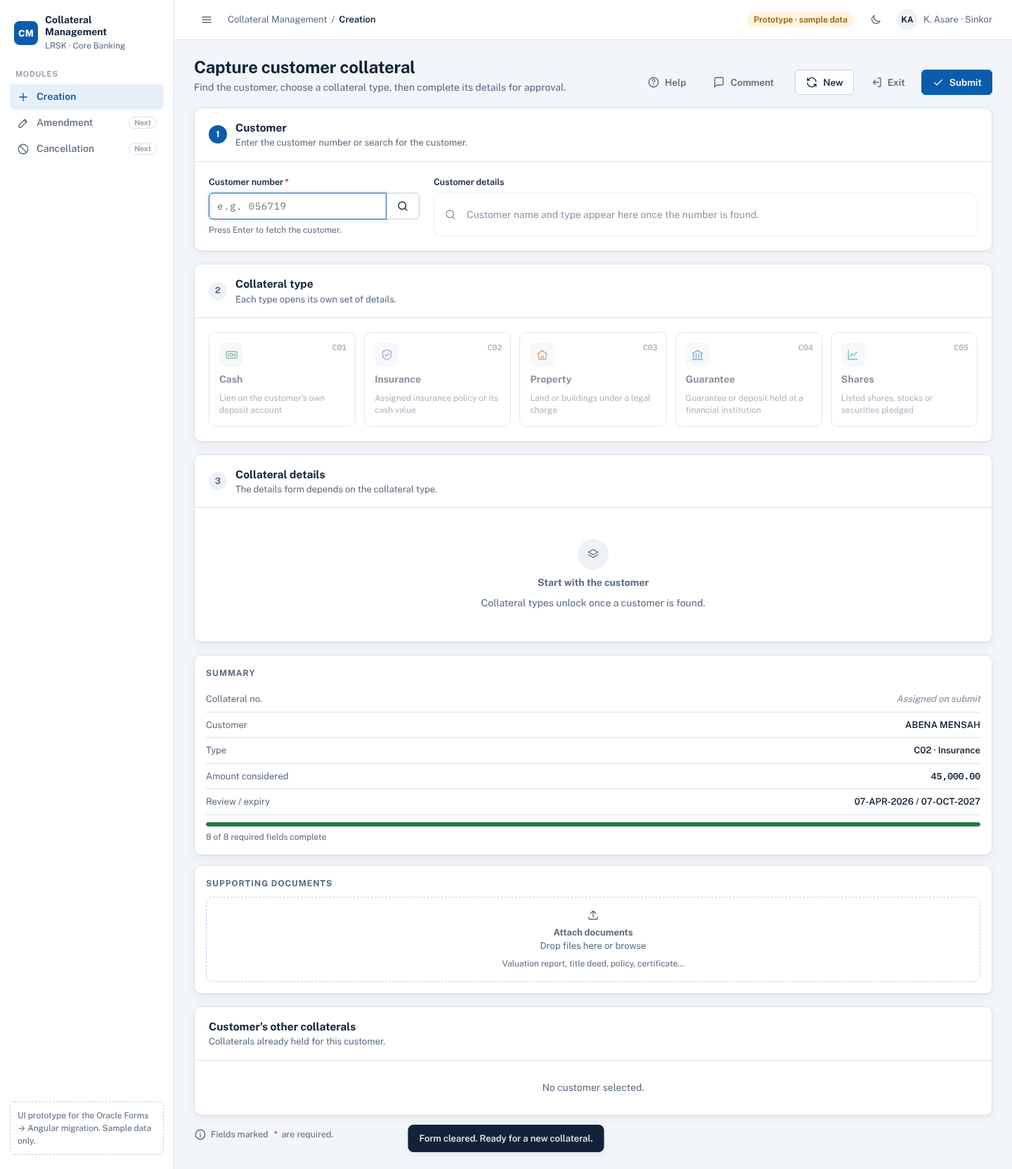
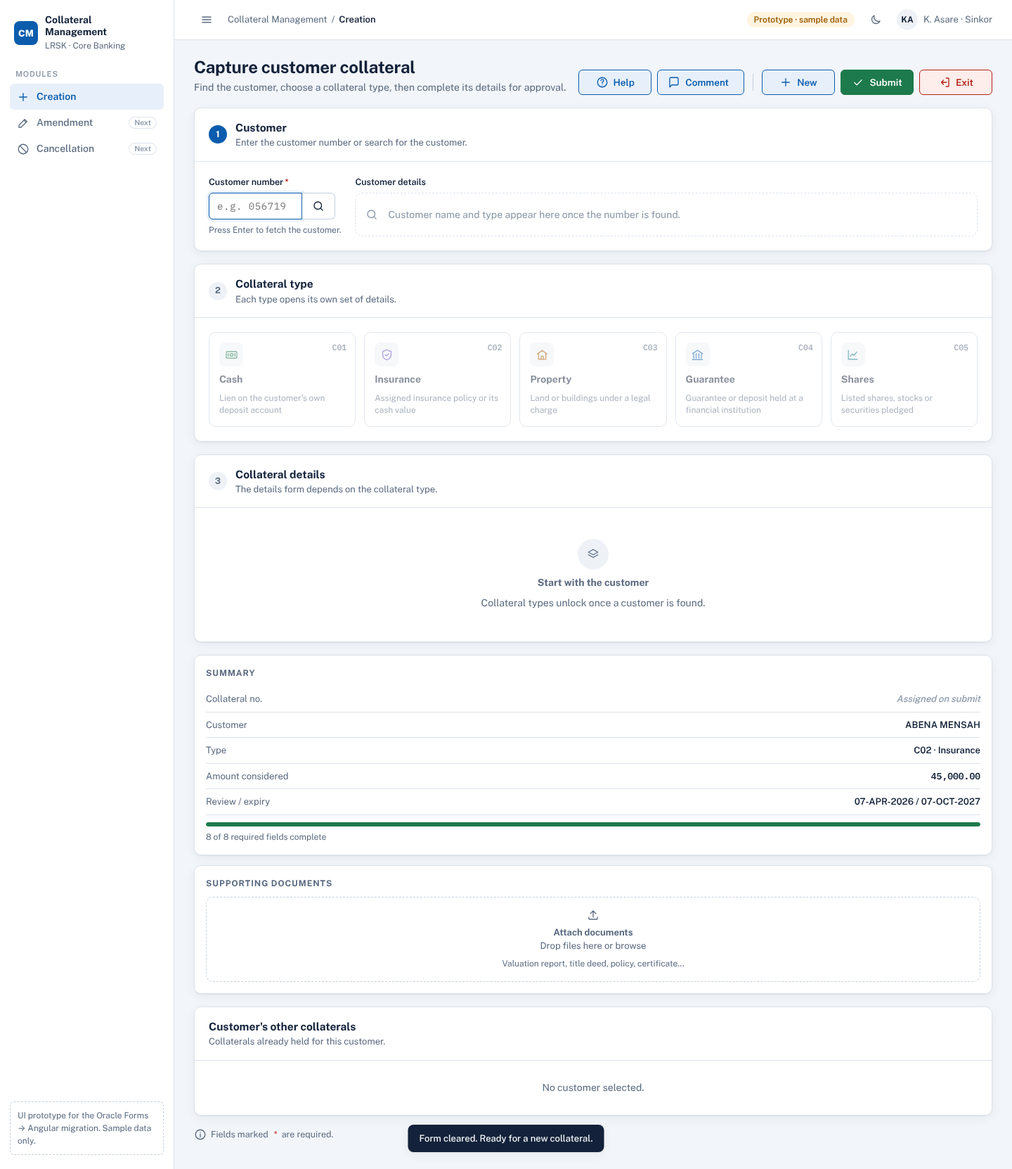
Standardise action bar colours and size fields to their values
- Help, Comment, New (blue), Submit (green), Exit (red) in Forms order,
  documented as the standard action bar for every module
- Width scale (xs-2xl) so controls match their value length
- Branch shown as code + name (010 SINKOR)

Claude-Session: https://claude.ai/code/session_011ztbXXXbWQFsQty3k2T7VW

Changed region(s): [[0.7812, 0.0614, 1.0, 0.0921], [0.5938, 0.0614, 0.75, 0.0921], [0.3438, 0.1534, 0.5, 0.1841]]

diff --git a/design/creation/index.html b/design/creation/index.html
@@ -18,6 +18,7 @@
   --danger:#B42318; --danger-soft:#FDEDEB;
   --success:#1D7A4C; --success-soft:#E4F3EB;
   --warn:#9A5A00; --warn-soft:#FFF4E0;
+  --act-blue:#0B5CAD; --act-blue-soft:#E7F0FA; --act-green:#1D7A4C; --act-green-ink:#FFFFFF; --act-red:#B42318; --act-red-soft:#FDEDEB;
   --t-cash:#1D7A4C; --t-ins:#6A4BC2; --t-prop:#B05E0C; --t-guar:#0B5CAD; --t-shares:#0D7A84;
   --shadow:0 1px 2px rgba(19,34,58,.06),0 4px 16px rgba(19,34,58,.05);
   --overlay:rgba(12,22,38,.42);
@@ -32,6 +33,7 @@
   --primary:#5AA2EE; --primary-hover:#7BB5F2; --primary-ink:#081322; --primary-soft:#16304F;
   --danger:#F2867B; --danger-soft:#3A1C1C; --success:#5CC892; --success-soft:#14321F;
   --warn:#E9B15C; --warn-soft:#352812;
+  --act-blue:#6AAEF2; --act-blue-soft:#16304F; --act-green:#3FB57A; --act-green-ink:#06180E; --act-red:#F2867B; --act-red-soft:#3A1C1C;
   --t-cash:#5CC892; --t-ins:#A890F0; --t-prop:#E6A25A; --t-guar:#5AA2EE; --t-shares:#4CC3CC;
   --shadow:0 1px 2px rgba(0,0,0,.3),0 4px 16px rgba(0,0,0,.25); --overlay:rgba(3,7,14,.6);
   color-scheme:dark}}
@@ -42,6 +44,7 @@
   --primary:#5AA2EE; --primary-hover:#7BB5F2; --primary-ink:#081322; --primary-soft:#16304F;
   --danger:#F2867B; --danger-soft:#3A1C1C; --success:#5CC892; --success-soft:#14321F;
   --warn:#E9B15C; --warn-soft:#352812;
+  --act-blue:#6AAEF2; --act-blue-soft:#16304F; --act-green:#3FB57A; --act-green-ink:#06180E; --act-red:#F2867B; --act-red-soft:#3A1C1C;
   --t-cash:#5CC892; --t-ins:#A890F0; --t-prop:#E6A25A; --t-guar:#5AA2EE; --t-shares:#4CC3CC;
   --shadow:0 1px 2px rgba(0,0,0,.3),0 4px 16px rgba(0,0,0,.25); --overlay:rgba(3,7,14,.6);
   color-scheme:dark}
@@ -90,6 +93,16 @@ svg.i{width:18px;height:18px;flex:none;stroke:currentColor;fill:none;stroke-widt
 .btn:hover{background:var(--surface-2)}
 .btn.primary{background:var(--primary);border-color:var(--primary);color:var(--primary-ink)}
 .btn.primary:hover{background:var(--primary-hover)}
+/* Standard action bar (same on every module screen): Help, Comment, New = blue · Submit = green · Exit = red */
+.actionbar{display:flex;gap:8px;flex-wrap:wrap;align-items:center}
+.actionbar .sep{width:1px;height:24px;background:var(--line-strong);margin:0 4px}
+.btn.act-blue{background:var(--act-blue-soft);border-color:var(--act-blue);color:var(--act-blue)}
+.btn.act-blue:hover{background:var(--act-blue);color:var(--surface)}
+.btn.act-green{background:var(--act-green);border-color:var(--act-green);color:var(--act-green-ink)}
+.btn.act-green:hover{filter:brightness(1.08)}
+.btn.act-red{background:var(--act-red-soft);border-color:var(--act-red);color:var(--act-red)}
+.btn.act-red:hover{background:var(--act-red);color:var(--surface)}
+.actionbar .btn{min-width:104px;justify-content:center}
 .btn.ghost{border-color:transparent;background:transparent;color:var(--muted)}
 .btn.ghost:hover{background:var(--sunken);color:var(--fg)}
 .btn.icon{padding:0;width:36px;justify-content:center}
@@ -109,6 +122,10 @@ svg.i{width:18px;height:18px;flex:none;stroke:currentColor;fill:none;stroke-widt
 /* Fields */
 .grid{display:grid;grid-template-columns:repeat(2,minmax(0,1fr));gap:16px 20px}
 .grid .span2{grid-column:1/-1}
+/* Field width scale: controls are sized to the length of their values, not stretched to the column */
+.field{--w:100%}
+.field > .input,.field > .lookup-btn,.field > .ro,.field > .affix,.field > .search{width:var(--w);max-width:100%}
+.w-xs{--w:120px}.w-sm{--w:180px}.w-md{--w:220px}.w-lg{--w:300px}.w-xl{--w:420px}.w-2xl{--w:560px}.w-full{--w:100%}
 .field{display:flex;flex-direction:column;gap:6px;min-width:0}
 .field label,.field .lbl{font-size:12.5px;font-weight:600;color:var(--fg)}
 .req{color:var(--danger);margin-left:2px}
@@ -138,7 +155,7 @@ textarea.input{height:auto;min-height:76px;padding:9px 11px;resize:vertical}
 .section-title{font-size:11.5px;text-transform:uppercase;letter-spacing:.08em;font-weight:700;color:var(--muted);margin:0}
 
 /* Step 1: customer */
-.cust-row{display:grid;grid-template-columns:minmax(220px,300px) minmax(0,1fr);gap:20px;align-items:start}
+.cust-row{display:grid;grid-template-columns:auto minmax(0,1fr);gap:20px;align-items:start}
 .search{display:flex;gap:0}
 .search .input{border-top-right-radius:0;border-bottom-right-radius:0;font-family:var(--font-mono);letter-spacing:.04em}
 .search .btn{border-top-left-radius:0;border-bottom-left-radius:0;border-left:0;height:38px}
@@ -253,7 +270,7 @@ tr.new td{background:var(--primary-soft)}
   .cust-row{grid-template-columns:minmax(0,1fr)}
   .user span{display:none}
 }
-@media (max-width:640px){.types{grid-template-columns:repeat(2,minmax(0,1fr))}.grid{grid-template-columns:minmax(0,1fr)}.page-head .actions{width:100%}.page-head .actions .btn.primary{margin-left:auto}.sample-pill{display:none}.card-head .right{display:none}}
+@media (max-width:640px){.types{grid-template-columns:repeat(2,minmax(0,1fr))}.grid{grid-template-columns:minmax(0,1fr)}.actionbar .sep{display:none}.actionbar .btn{min-width:0;flex:1 1 auto}.sample-pill{display:none}.card-head .right{display:none}}
 @media (prefers-reduced-motion:reduce){*{animation:none!important;transition:none!important}}
 </style>
 </head>
@@ -311,12 +328,13 @@ tr.new td{background:var(--primary-soft)}
           <h1>Capture customer collateral</h1>
           <p>Find the customer, choose a collateral type, then complete its details for approval.</p>
         </div>
-        <div class="actions">
-          <button class="btn ghost" id="helpBtn"><svg class="i"><use href="#i-help"/></svg>Help</button>
-          <button class="btn ghost" id="commentBtn"><svg class="i"><use href="#i-msg"/></svg>Comment <span id="commentCount"></span></button>
-          <button class="btn" id="newBtn"><svg class="i"><use href="#i-refresh"/></svg>New</button>
-          <button class="btn ghost" id="exitBtn"><svg class="i"><use href="#i-close"/></svg>Exit</button>
-          <button class="btn primary" id="submitBtn"><svg class="i"><use href="#i-check"/></svg>Submit</button>
+        <div class="actionbar" role="toolbar" aria-label="Screen actions">
+          <button class="btn act-blue" id="helpBtn"><svg class="i"><use href="#i-help"/></svg>Help</button>
+          <button class="btn act-blue" id="commentBtn"><svg class="i"><use href="#i-msg"/></svg>Comment<span id="commentCount"></span></button>
+          <span class="sep" aria-hidden="true"></span>
+          <button class="btn act-blue" id="newBtn"><svg class="i"><use href="#i-plus"/></svg>New</button>
+          <button class="btn act-green" id="submitBtn"><svg class="i"><use href="#i-check"/></svg>Submit</button>
+          <button class="btn act-red" id="exitBtn"><svg class="i"><use href="#i-close"/></svg>Exit</button>
         </div>
       </div>
 
@@ -325,13 +343,13 @@ tr.new td{background:var(--primary-soft)}
         <div class="card-head"><div class="step" id="step1">1</div><div><h2 id="s1">Customer</h2><p>Enter the customer number or search for the customer.</p></div></div>
         <div class="card-body">
           <div class="cust-row">
-            <div class="field" id="fld-customer">
+            <div class="field w-sm" id="fld-customer">
               <label for="custNo">Customer number<span class="req">*</span></label>
               <div class="search">
                 <input class="input" id="custNo" inputmode="numeric" autocomplete="off" placeholder="e.g. 056719" maxlength="10">
                 <button class="btn" id="custSearch" type="button" aria-label="Search customers"><svg class="i"><use href="#i-search"/></svg></button>
               </div>
-              <div class="hint" id="custHint">Press Enter to fetch the customer.</div>
+              <div class="hint" id="custHint" style="max-width:220px">Press Enter to fetch the customer.</div>
             </div>
             <div class="field">
               <span class="lbl">Customer details</span>
@@ -379,17 +397,17 @@ const parseAmt=v=>{const n=parseFloat(String(v).replace(/,/g,""));return isNaN(n
 
 /* ---------- Sample reference data (stands in for the Oracle LOVs) ---------- */
 const CUSTOMERS=[
-  {code:"056719",name:"ABENA MENSAH",type:"INDIVIDUAL",branch:"SINKOR"},
-  {code:"048213",name:"KOFI BOATENG ENTERPRISES",type:"CORPORATE",branch:"SINKOR"},
-  {code:"061104",name:"EFUA ASANTE",type:"INDIVIDUAL",branch:"CONGO TOWN"},
-  {code:"072530",name:"RIVERSIDE TRADERS LTD",type:"CORPORATE",branch:"BROAD STREET"},
+  {code:"056719",name:"ABENA MENSAH",type:"INDIVIDUAL",branch:"SINKOR",brCode:"010"},
+  {code:"048213",name:"KOFI BOATENG ENTERPRISES",type:"CORPORATE",branch:"SINKOR",brCode:"010"},
+  {code:"061104",name:"EFUA ASANTE",type:"INDIVIDUAL",branch:"CONGO TOWN",brCode:"012"},
+  {code:"072530",name:"RIVERSIDE TRADERS LTD",type:"CORPORATE",branch:"BROAD STREET",brCode:"015"},
 ];
 const ACCOUNTS=[
-  {code:"00422004346801",desc:"ABENA MENSAH",cust:"056719",branch:"SINKOR",prod:"220",prodDesc:"SAVINGS PERSONAL",ccy:"010",ccyDesc:"GHANA CEDIS",bal:{avail:1220.78,cleared:1542.78,uncleared:0,od:0,block:322.00}},
-  {code:"00422001198320",desc:"ABENA MENSAH",cust:"056719",branch:"SINKOR",prod:"310",prodDesc:"FIXED DEPOSIT 12M",ccy:"010",ccyDesc:"GHANA CEDIS",bal:{avail:25000,cleared:25000,uncleared:0,od:0,block:0}},
-  {code:"00431007712055",desc:"KOFI BOATENG ENTERPRISES",cust:"048213",branch:"SINKOR",prod:"110",prodDesc:"CURRENT CORPORATE",ccy:"020",ccyDesc:"US DOLLAR",bal:{avail:84310.5,cleared:90110.5,uncleared:5800,od:0,block:0}},
-  {code:"00515002203914",desc:"EFUA ASANTE",cust:"061104",branch:"CONGO TOWN",prod:"220",prodDesc:"SAVINGS PERSONAL",ccy:"010",ccyDesc:"GHANA CEDIS",bal:{avail:6420,cleared:6420,uncleared:0,od:0,block:0}},
-  {code:"00608009934117",desc:"RIVERSIDE TRADERS LTD",cust:"072530",branch:"BROAD STREET",prod:"110",prodDesc:"CURRENT CORPORATE",ccy:"010",ccyDesc:"GHANA CEDIS",bal:{avail:142800,cleared:150000,uncleared:7200,od:0,block:0}},
+  {code:"00422004346801",desc:"ABENA MENSAH",cust:"056719",branch:"SINKOR",brCode:"010",prod:"220",prodDesc:"SAVINGS PERSONAL",ccy:"010",ccyDesc:"GHANA CEDIS",bal:{avail:1220.78,cleared:1542.78,uncleared:0,od:0,block:322.00}},
+  {code:"00422001198320",desc:"ABENA MENSAH",cust:"056719",branch:"SINKOR",brCode:"010",prod:"310",prodDesc:"FIXED DEPOSIT 12M",ccy:"010",ccyDesc:"GHANA CEDIS",bal:{avail:25000,cleared:25000,uncleared:0,od:0,block:0}},
+  {code:"00431007712055",desc:"KOFI BOATENG ENTERPRISES",cust:"048213",branch:"SINKOR",brCode:"010",prod:"110",prodDesc:"CURRENT CORPORATE",ccy:"020",ccyDesc:"US DOLLAR",bal:{avail:84310.5,cleared:90110.5,uncleared:5800,od:0,block:0}},
+  {code:"00515002203914",desc:"EFUA ASANTE",cust:"061104",branch:"CONGO TOWN",brCode:"012",prod:"220",prodDesc:"SAVINGS PERSONAL",ccy:"010",ccyDesc:"GHANA CEDIS",bal:{avail:6420,cleared:6420,uncleared:0,od:0,block:0}},
+  {code:"00608009934117",desc:"RIVERSIDE TRADERS LTD",cust:"072530",branch:"BROAD STREET",brCode:"015",prod:"110",prodDesc:"CURRENT CORPORATE",ccy:"010",ccyDesc:"GHANA CEDIS",bal:{avail:142800,cleared:150000,uncleared:7200,od:0,block:0}},
 ];
 const L=(code,desc,extra)=>Object.assign({code,desc},extra||{});
 const LOVS={
@@ -409,7 +427,7 @@ const LOVS={
 
 /* ---------- Collateral type schemas (same shape the Angular dynamic form would read) ---------- */
 const COLL=(o)=>[
-  {id:"amount",label:o.amountLabel||"Amount considered",type:"amount",req:true},
+  {id:"amount",label:o.amountLabel||"Amount considered",type:"amount",req:true,span:o.extra?1:2},
   ...(o.extra||[]),
   {id:"reviewDate",label:o.reviewLabel||"Review date",type:"date",req:true},
   {id:"expiryDate",label:o.expiryLabel||"Expiry date",type:"date",req:true},
@@ -419,30 +437,30 @@ const TYPES=[
   {code:"C01",name:"Cash",title:"Cash collateral",lovDesc:"CASH COLLATERALS",tc:"--t-cash",ic:"cash",d:"Lien on the customer's own deposit account",
    sections:[
     {title:"Account details",fields:[
-      {id:"account",label:"Source account",type:"lookup",lov:"account",req:true,span:2},
-      {id:"srcBranch",label:"Source branch",type:"derived",get:s=>s.lookups.account?.branch},
+      {id:"account",label:"Source account",type:"lookup",lov:"account",req:true,span:2,w:"xl"},
+      {id:"srcBranch",label:"Source branch",type:"derived",get:s=>s.lookups.account&&`${s.lookups.account.brCode} · ${s.lookups.account.branch}`,w:"md"},
       {id:"product",label:"Product",type:"derived",get:s=>s.lookups.account&&`${s.lookups.account.prod} · ${s.lookups.account.prodDesc}`},
-      {id:"ccy",label:"Currency",type:"derived",get:s=>s.lookups.account&&`${s.lookups.account.ccy} · ${s.lookups.account.ccyDesc}`},
+      {id:"ccy",label:"Currency",type:"derived",w:"md",get:s=>s.lookups.account&&`${s.lookups.account.ccy} · ${s.lookups.account.ccyDesc}`},
     ]},
     {title:"Collateral details",fields:COLL({amountLabel:"Collateral amount",reviewLabel:"Next review date",expiryLabel:"Expiry review date"})}],
    rail:"balances"},
   {code:"C02",name:"Insurance",title:"Insurance collateral",lovDesc:"INSURANCE COLLATERALS",tc:"--t-ins",ic:"shield",d:"Assigned insurance policy or its cash value",
    sections:[
     {title:"Insurance details",fields:[
-      {id:"insCompany",label:"Insurance company",type:"lookup",lov:"insCompany",req:true,span:2},
-      {id:"insCode",label:"Insurance code",type:"text",req:true},
+      {id:"insCompany",label:"Insurance company",type:"lookup",lov:"insCompany",req:true,span:2,w:"xl"},
+      {id:"insCode",label:"Insurance code",type:"text",req:true,w:"sm"},
       {id:"policyNo",label:"Policy number",type:"text",req:true},
-      {id:"policyType",label:"Policy type",type:"lookup",lov:"policyType",req:true,span:2},
+      {id:"policyType",label:"Policy type",type:"lookup",lov:"policyType",req:true,span:2,w:"xl"},
     ]},
     {title:"Collateral details",fields:COLL({extra:[{id:"sumAssured",label:"Sum assured",type:"amount",req:true}]})}]},
   {code:"C03",name:"Property",title:"Property collateral",lovDesc:"PROPERTY COLLATERAL",tc:"--t-prop",ic:"home",d:"Land or buildings under a legal charge",
    sections:[
     {title:"Property details",fields:[
-      {id:"propType",label:"Property type",type:"lookup",lov:"propType",req:true},
-      {id:"propSub",label:"Sub property type",type:"lookup",lov:"propSub"},
-      {id:"owner",label:"Ownership name",type:"text",req:true,span:2},
-      {id:"location",label:"Location",type:"text",req:true,span:2},
-      {id:"valuer",label:"Valuer name",type:"text",req:true},
+      {id:"propType",label:"Property type",type:"lookup",lov:"propType",req:true,w:"lg"},
+      {id:"propSub",label:"Sub property type",type:"lookup",lov:"propSub",w:"lg"},
+      {id:"owner",label:"Ownership name",type:"text",req:true,span:2,w:"2xl"},
+      {id:"location",label:"Location",type:"text",req:true,span:2,w:"2xl"},
+      {id:"valuer",label:"Valuer name",type:"text",req:true,w:"lg"},
       {id:"valuerTel",label:"Valuer contact number",type:"tel",req:true,placeholder:"e.g. 0302678178"},
       {id:"valDate",label:"Valuation date",type:"date",req:true},
       {id:"marketValue",label:"Market value",type:"amount",req:true},
@@ -452,31 +470,31 @@ const TYPES=[
   {code:"C04",name:"Guarantee",title:"Guarantee collateral",lovDesc:"GUARANTEE COLLATERALS",tc:"--t-guar",ic:"bank",d:"Guarantee or deposit held at a financial institution",
    sections:[
     {title:"Guarantee details",fields:[
-      {id:"finInst",label:"Financial institution",type:"lookup",lov:"finInst",req:true,span:2},
-      {id:"guarAccount",label:"Account number",type:"lookup",lov:"guarAccount",req:true,span:2},
-      {id:"currency",label:"Currency",type:"lookup",lov:"currency",req:true},
-      {id:"branch",label:"Branch",type:"text"},
-      {id:"depositType",label:"Deposit type",type:"lookup",lov:"depositType",req:true},
-      {id:"guarCollType",label:"Collateral type",type:"lookup",lov:"guarCollType",req:true},
+      {id:"finInst",label:"Financial institution",type:"lookup",lov:"finInst",req:true,span:2,w:"xl"},
+      {id:"guarAccount",label:"Account number",type:"lookup",lov:"guarAccount",req:true,span:2,w:"xl"},
+      {id:"currency",label:"Currency",type:"lookup",lov:"currency",req:true,w:"lg"},
+      {id:"branch",label:"Branch",type:"text",w:"lg"},
+      {id:"depositType",label:"Deposit type",type:"lookup",lov:"depositType",req:true,w:"lg"},
+      {id:"guarCollType",label:"Collateral type",type:"lookup",lov:"guarCollType",req:true,w:"lg"},
       {id:"rate",label:"Interest rate",type:"percent",req:true},
       {id:"guarAmount",label:"Guarantee amount",type:"amount",req:true},
       {id:"months",label:"Number of months",type:"int",req:true},
-      {id:"folioNo",label:"Folio number",type:"text",req:true},
-      {id:"folioStart",label:"Folio start number",type:"text",req:true},
-      {id:"folioEnd",label:"Folio end number",type:"text",req:true},
+      {id:"folioNo",label:"Folio number",type:"text",req:true,w:"sm"},
+      {id:"folioStart",label:"Folio start number",type:"text",req:true,w:"sm"},
+      {id:"folioEnd",label:"Folio end number",type:"text",req:true,w:"sm"},
     ]},
     {title:"Collateral details",fields:COLL({})}]},
   {code:"C05",name:"Shares",title:"Shares / stock / security collateral",lovDesc:"SHARES / STOCKS / SECURITIES COLLATERAL",tc:"--t-shares",ic:"chart",d:"Listed shares, stocks or securities pledged",
    sections:[
     {title:"Shares / stock / security details",fields:[
-      {id:"shareCode",label:"Share / security code",type:"lookup",lov:"shareCode",req:true,span:2},
-      {id:"shareIndex",label:"Index",type:"lookup",lov:"shareIndex",req:true,span:2},
+      {id:"shareCode",label:"Share / security code",type:"lookup",lov:"shareCode",req:true,span:2,w:"xl"},
+      {id:"shareIndex",label:"Index",type:"lookup",lov:"shareIndex",req:true,span:2,w:"xl"},
       {id:"units",label:"Number of shares / securities",type:"int",req:true},
       {id:"secAmount",label:"Security amount",type:"amount",req:true},
       {id:"marketValue",label:"Market value",type:"amount",req:true},
-      {id:"folioNo",label:"Folio number",type:"text",req:true},
-      {id:"folioStart",label:"Folio start number",type:"text",req:true},
-      {id:"folioEnd",label:"Folio end number",type:"text",req:true},
+      {id:"folioNo",label:"Folio number",type:"text",req:true,w:"sm"},
+      {id:"folioStart",label:"Folio start number",type:"text",req:true,w:"sm"},
+      {id:"folioEnd",label:"Folio end number",type:"text",req:true,w:"sm"},
     ]},
     {title:"Collateral details",fields:COLL({})}]},
 ];
@@ -505,7 +523,7 @@ function renderCustomer(){
   if(S.loading){card.innerHTML=`<div class="cust-card"><div class="avatar"></div><div style="flex:1;display:grid;gap:8px"><div class="skeleton" style="width:55%"></div><div class="skeleton" style="width:35%"></div></div></div>`;return}
   if(!c){card.innerHTML=`<div class="cust-card empty">${icon("search")}Customer name and type appear here once the number is found.</div>`;return}
   const ini=c.name.split(" ").slice(0,2).map(w=>w[0]).join("");
-  card.innerHTML=`<div class="cust-card"><div class="avatar">${esc(ini)}</div><div style="min-width:0"><div class="nm">${esc(c.name)}</div><div class="meta"><span class="badge ${c.type==="CORPORATE"?"corp":""}">${esc(c.type)}</span><span class="mono">${esc(c.code)}</span><span>Home branch · ${esc(c.branch)}</span></div></div></div>`;
+  card.innerHTML=`<div class="cust-card"><div class="avatar">${esc(ini)}</div><div style="min-width:0"><div class="nm">${esc(c.name)}</div><div class="meta"><span class="badge ${c.type==="CORPORATE"?"corp":""}">${esc(c.type)}</span><span class="mono">${esc(c.code)}</span><span>Home branch · <span class="mono">${esc(c.brCode)}</span> ${esc(c.branch)}</span></div></div></div>`;
 }
 function fetchCustomer(code){
   code=String(code||"").trim();
@@ -531,6 +549,8 @@ function renderTypes(){
 }
 
 /* ---------- Step 3: dynamic form ---------- */
+const WIDTH={amount:"w-md",percent:"w-xs",int:"w-xs",date:"w-sm",tel:"w-sm",text:"w-md",lookup:"w-xl",derived:"w-lg",textarea:"w-2xl"};
+const wcls=f=>f.w?"w-"+f.w:WIDTH[f.type]||"w-md";
 function fieldHtml(t,f){
   const id=`f-${t.code}-${f.id}`,v=S.values[f.id]??"",err=S.showErrors&&S.errors[f.id];
   const lbl=`<label for="${id}">${esc(f.label)}${f.req?'<span class="req">*</span>':""}</label>`;
@@ -541,7 +561,7 @@ function fieldHtml(t,f){
     ctl=`<button type="button" class="lookup-btn" id="${id}" data-lov="${f.id}" ${blocked?"disabled":""}>${row?`<span class="code">${esc(row.code)}</span><span class="desc">${esc(row.desc)}</span>`:`<span class="ph">${blocked?"Select "+esc(fieldLabel(t,lov.dependsOn).toLowerCase())+" first":"Search and select"}</span>`}${icon("search")}</button>`;
   }else if(f.type==="derived"){
     const val=f.get(S);ctl=`<div class="ro ${val?"":"empty"}" id="${id}">${val?esc(val):"Filled from source account"}</div>`;
-    return `<div class="field ${f.span===2?"span2":""}"><span class="lbl">${esc(f.label)}</span>${ctl}</div>`;
+    return `<div class="field ${wcls(f)} ${f.span===2?"span2":""}"><span class="lbl">${esc(f.label)}</span>${ctl}</div>`;
   }else if(f.type==="textarea"){
     ctl=`<textarea class="input" id="${id}" data-f="${f.id}" placeholder="${esc(f.placeholder||"")}">${esc(v)}</textarea>`;
   }else if(f.type==="amount"){
@@ -558,7 +578,7 @@ function fieldHtml(t,f){
   let help="";
   if(err)help=`<div class="err">${icon("alert")}${esc(err)}</div>`;
   else if(f.id==="amount"&&S.type==="C01"&&S.lookups.account)help=`<div class="hint">Available balance <span class="mono">${fmt(S.lookups.account.bal.avail)}</span></div>`;
-  return `<div class="field ${f.span===2?"span2":""} ${err?"invalid":""}" id="wrap-${id}">${lbl}${ctl}${help}</div>`;
+  return `<div class="field ${wcls(f)} ${f.span===2?"span2":""} ${err?"invalid":""}" id="wrap-${id}">${lbl}${ctl}${help}</div>`;
 }
 const fieldLabel=(t,id)=>t.sections.flatMap(s=>s.fields).find(f=>f.id===id)?.label||id;
 

diff --git a/docs/design-system.md b/docs/design-system.md
@@ -10,11 +10,51 @@ The visual rules used by the prototype, so the Angular build and later modules (
 4. **Errors tell you what to do.** "Enter the policy number." appears next to the field and in a summary at the top of the form.
 5. **Keyboard first.** Enter fetches the customer. Arrow keys and Enter work in every lookup. Esc closes dialogs. Tab order follows the screen.
 
+## Standard action bar
+
+Every module screen (Creation, Amendment, Cancellation, …) uses the same action bar, top right of the page header, in this order and colour:
+
+| Order | Button | Colour | Style | Action |
+|---|---|---|---|---|
+| 1 | Help | Blue | Tinted (blue border and text) | Opens the help panel for the screen |
+| 2 | Comment | Blue | Tinted | Opens the comments panel. Shows a count when comments exist |
+| — | *divider* | | | Separates the information actions from the record actions |
+| 3 | New | Blue | Tinted | Clears the screen for a new record |
+| 4 | Submit | Green | Solid (the only solid button) | Validates and saves the record |
+| 5 | Exit | Red | Tinted (red border and text) | Leaves the screen |
+
+Rules:
+- The order, colours and icons do not change between screens. A screen that does not need an action disables it rather than removing it, so buttons never shift position.
+- Buttons share a minimum width (104px) so the bar looks the same whatever the label.
+- Submit is the only solid button on the page, which makes it the primary action.
+- On narrow screens the buttons wrap and stretch to fill the row, keeping the same order.
+
+| Token | Light | Dark |
+|---|---|---|
+| `--act-blue` | `#0B5CAD` | `#6AAEF2` |
+| `--act-green` | `#1D7A4C` | `#3FB57A` |
+| `--act-red` | `#B42318` | `#F2867B` |
+
+## Field widths
+
+Controls are sized to the length of the value they hold, not stretched to fill the column. Labels and fields stay left-aligned on a two-column grid, so the edges still line up.
+
+| Size | Width | Used for |
+|---|---|---|
+| `xs` | 120px | Percent, number of months, number of shares |
+| `sm` | 180px | Customer number, dates, phone numbers, insurance code, folio numbers |
+| `md` | 220px | Amounts, branch (`010 · SINKOR`), currency (`010 · GHANA CEDIS`), short text |
+| `lg` | 300px | Product (`220 · SAVINGS PERSONAL`), shorter code lookups (policy type, deposit type, property type), valuer name |
+| `xl` | 420px | Long-name lookups: source account, financial institution, insurance company, share code |
+| `2xl` | 560px | Ownership name, location, comment |
+
+Each field type has a default size, and a field definition can override it (`w: 'sm'`). On phones the grid becomes one column; fields keep their size but never grow wider than the screen.
+
 ## Tokens
 
 | Token | Light | Dark | Use |
 |---|---|---|---|
-| `--primary` | `#0B5CAD` | `#5AA2EE` | Primary button, focus, active nav |
+| `--primary` | `#0B5CAD` | `#5AA2EE` | Focus ring, active nav, links |
 | `--bg` | `#F2F5F9` | `#0E1522` | Page background |
 | `--surface` | `#FFFFFF` | `#151E2E` | Cards, inputs |
 | `--sunken` | `#EEF2F7` | `#111A28` | Read-only fields, code chips |

diff --git a/docs/creation/collateral-creation.md b/docs/creation/collateral-creation.md
@@ -62,7 +62,7 @@ A draft flowchart is in [`flowchart.md`](flowchart.md).
 | Area | Oracle Forms | Angular design |
 |---|---|---|
 | Navigation | One window per screen | App shell with a module sidebar: **Creation** now, **Amendment** and **Cancellation** next |
-| Toolbar | Help, Comment, New, Submit, Exit buttons | Same actions in the page header. **Submit** is the primary button. Help and Comment open side panels. |
+| Toolbar | Help, Comment, New, Submit, Exit buttons | The **standard action bar** used on every module screen, in the same order as Forms: Help, Comment, New (blue), Submit (green), Exit (red). Help and Comment open side panels. See [design system](../design-system.md#standard-action-bar). |
 | Customer | Number + LOV button, read-only name and type | **Step 1** card: number field with search, Enter to fetch, customer card with name, type badge and home branch |
 | Collateral type | Code + LOV button + description | **Step 2** card: five selectable tiles that show code, name and a one-line description. Arrow keys move between tiles. |
 | Dynamic area | Stacked canvas for the selected type | **Step 3** card built from the type's form definition, grouped into sections |
@@ -92,7 +92,7 @@ Legend: **Req** = mandatory (red asterisk in Forms). **LOV** = picked from a loo
 | Field | Kind | Req | Notes |
 |---|---|---|---|
 | Source account | LOV | Yes | The customer's accounts. Shows the account name |
-| Source branch | RO | | From the account |
+| Source branch | RO | | Code + name from the account, e.g. `010 SINKOR` |
 | Product | RO | | Code + description, e.g. `220 SAVINGS PERSONAL` |
 | Currency | RO | | Code + description, e.g. `010 GHANA CEDIS` |
 
@@ -242,6 +242,7 @@ interface FieldDef {
   lookup?: string;            // reference-data endpoint, e.g. 'insurance-companies'
   dependsOn?: string;         // parent field for cascading lookups
   span?: 1 | 2;               // grid columns
+  w?: 'xs' | 'sm' | 'md' | 'lg' | 'xl' | '2xl';  // control width, sized to the value length
 }
 ```
 
